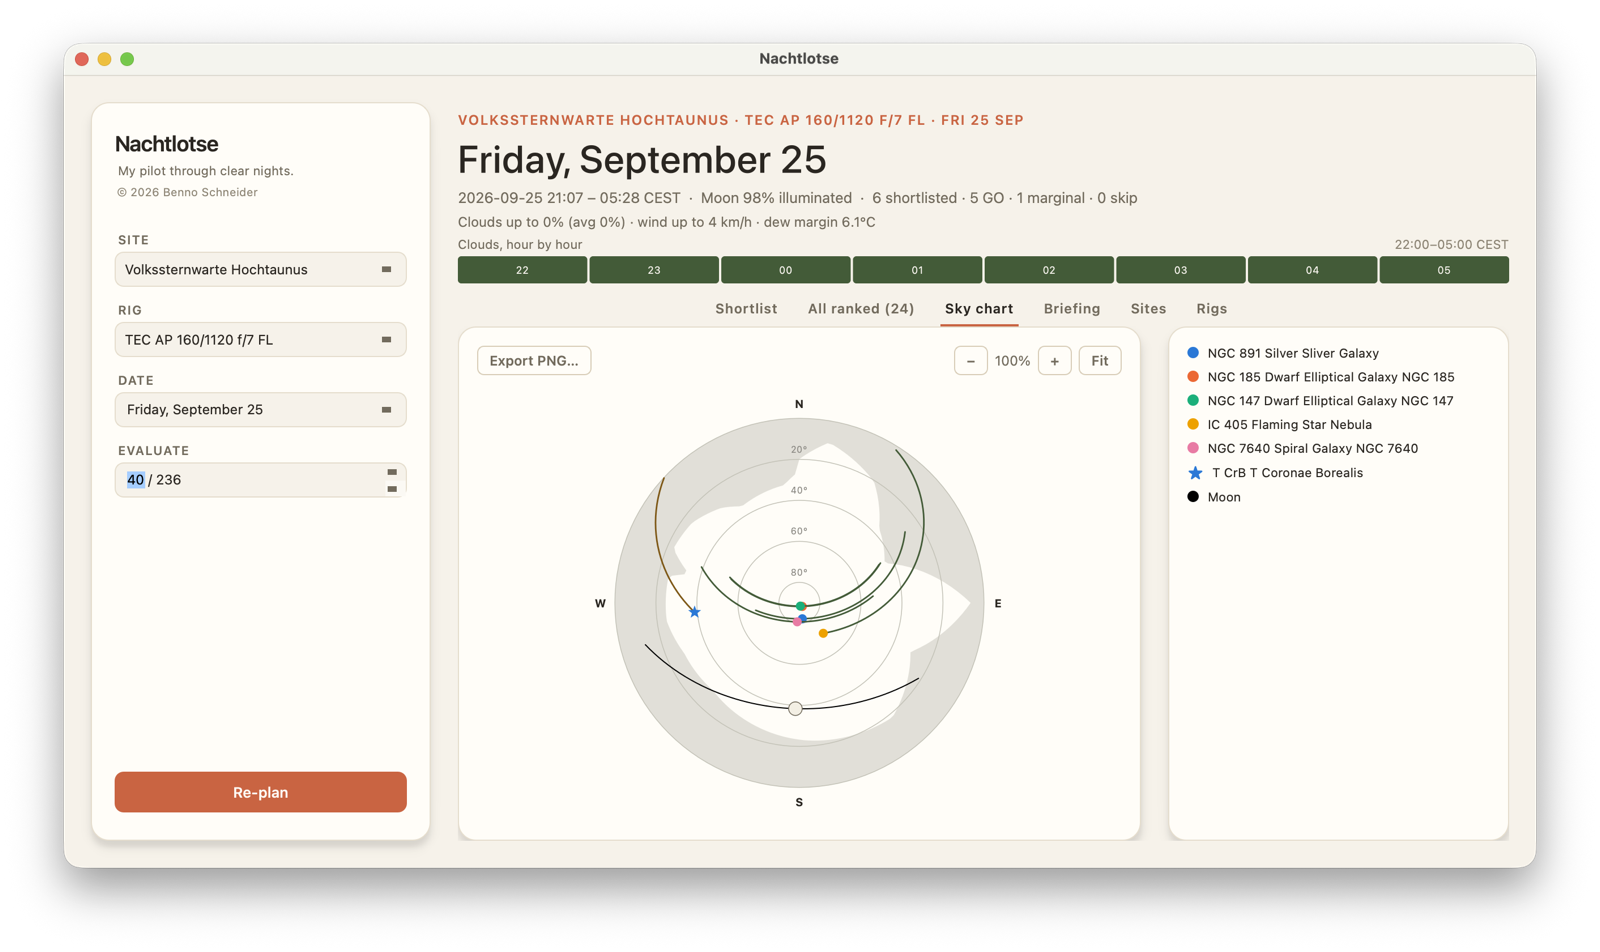
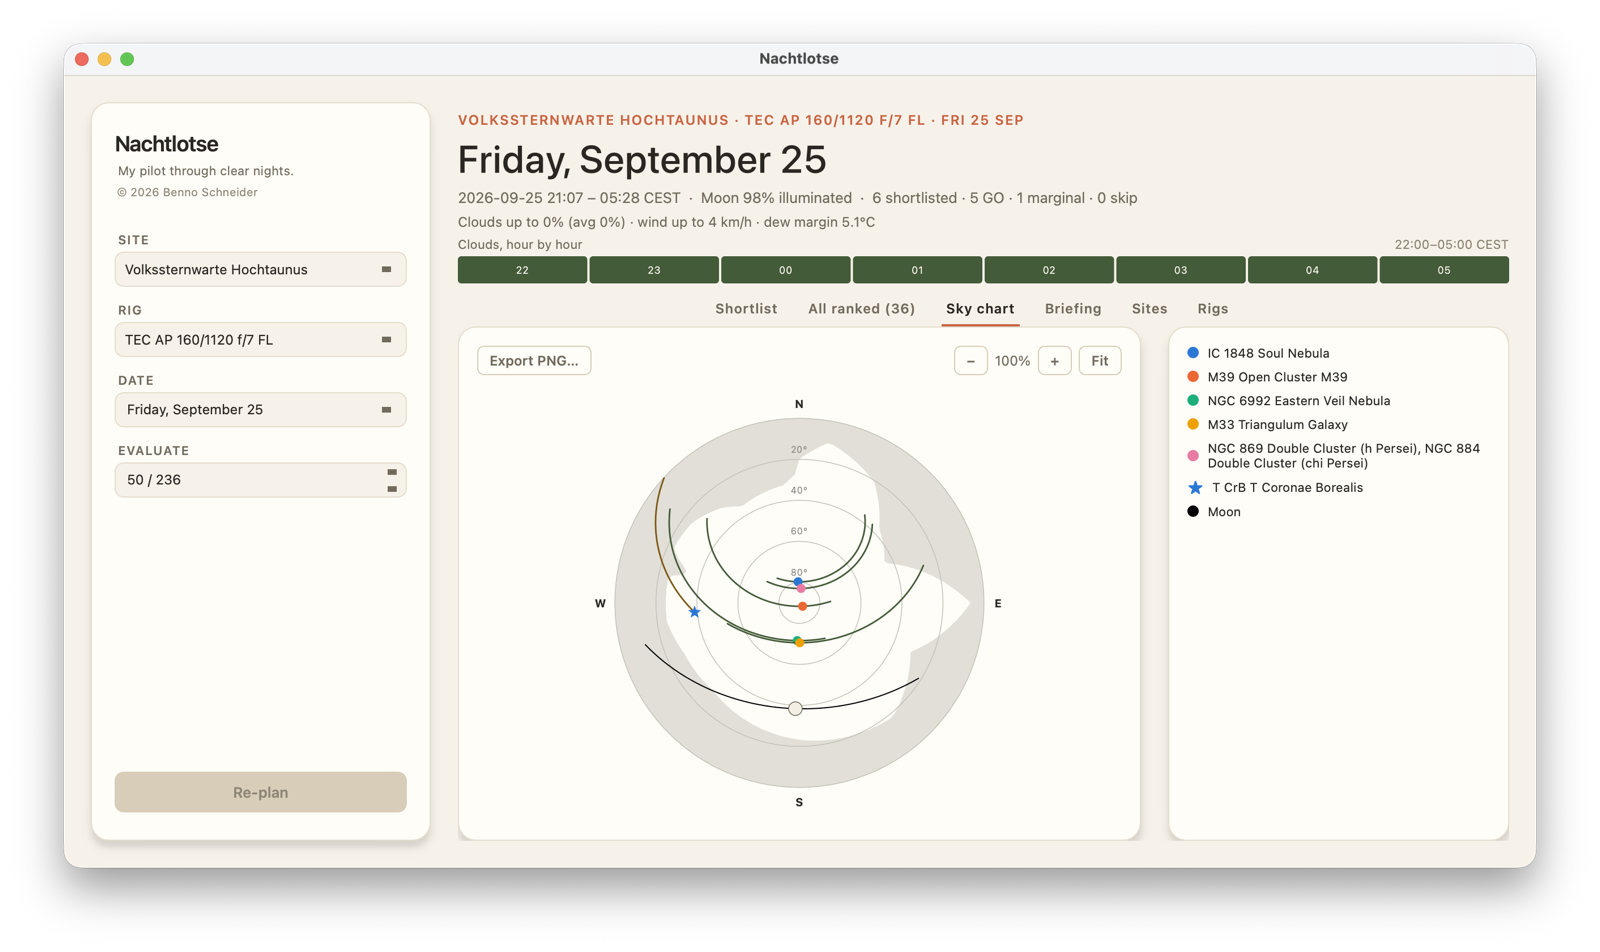
Evaluate catalog objects brightest-first; exempt favorites from the cap
The catalog loader sorted mag_*.yaml bin files alphabetically
(sorted(glob(...))), not by brightness, despite rank_targets's own
docstring claiming "catalog order is magnitude-binned, brightest
first". Alphabetically, mag_10_11.yaml sorts before mag_lt_6.yaml, so
the GUI/CLI's default --limit 50 was evaluating only 10th-13th
magnitude objects and never reaching anything in mag_lt_6.yaml (M31,
M45, ...) — the evaluation cap was silently hiding the most attractive
targets in the catalog.

data/catalog/__init__.py: sort bin files by an explicit brightness key
instead of filename, mag_lt_6 first and mag_unknown last.

planning.py: on top of that, a favorite (Target.favorite) is now
exempt from the evaluation cap entirely — always evaluated regardless
of catalog position, and not counted against the limit — instead of
only being guaranteed a shortlist slot once it happened to already be
in the evaluated set.

README/sidebar tooltip: document both guarantees where --limit/EVALUATE
are documented. Regenerated both GUI screenshots to match.

diff --git a/nachtlotse/data/catalog/__init__.py b/nachtlotse/data/catalog/__init__.py
@@ -5,7 +5,11 @@ catalog (Messier/NGC/IC): the file a target lives in is decided purely by
 brightness, so a site+rig's computed limiting magnitude will eventually be
 able to load only the files it actually needs. New magnitude bins are
 picked up automatically — this module globs `mag_*.yaml` in its own
-directory rather than importing each one by name.
+directory rather than importing each one by name — but loaded in
+brightest-first order (`_brightness_sort_key`), not filename order:
+`planning.rank_targets`'s `limit` caps evaluation to the first N entries
+of `CATALOG`, so the load order is what makes "evaluate only 50" mean
+"evaluate the 50 brightest" rather than an arbitrary alphabetical slice.
 
 `mag_unknown.yaml` is the one exception to "split by magnitude": it holds
 objects with no reliably sourced integrated magnitude at all (see
@@ -45,6 +49,7 @@ that way; omit the key entirely rather than writing `favorite: false`.
 
 from __future__ import annotations
 
+import re
 from pathlib import Path
 from typing import Any
 
@@ -53,6 +58,28 @@ import yaml
 from nachtlotse.engine.models import Target
 
 _CATALOG_DIR = Path(__file__).resolve().parent
+
+_BIN_FILENAME_RE = re.compile(r"^mag_(?:lt_(?P<lt>\d+)|(?P<low>\d+)_\d+|unknown)\.yaml$")
+
+
+def _brightness_sort_key(path: Path) -> float:
+    """Lower is brighter/evaluated-first — see `planning.rank_targets`'s
+    `limit`, which relies on catalog order being brightest-first so that
+    capping evaluation to the first N objects still surfaces the most
+    attractive targets rather than an alphabetically-arbitrary slice.
+
+    `mag_lt_6.yaml` sorts before every numeric bin (no lower bound to key
+    on); `mag_unknown.yaml` sorts after all of them, magnitude being
+    exactly what's not known about those entries.
+    """
+    match = _BIN_FILENAME_RE.match(path.name)
+    if match is None:
+        raise ValueError(f"catalog bin file doesn't match the mag_*.yaml pattern: {path.name}")
+    if match["lt"] is not None:
+        return -float(match["lt"])
+    if match["low"] is not None:
+        return float(match["low"])
+    return float("inf")  # mag_unknown.yaml
 
 
 def _target_from_dict(raw: dict[str, Any]) -> Target:
@@ -73,7 +100,7 @@ def _target_from_dict(raw: dict[str, Any]) -> Target:
 
 def _load_catalog() -> list[Target]:
     targets: list[Target] = []
-    for path in sorted(_CATALOG_DIR.glob("mag_*.yaml")):
+    for path in sorted(_CATALOG_DIR.glob("mag_*.yaml"), key=_brightness_sort_key):
         raw_targets = yaml.safe_load(path.read_text(encoding="utf-8")) or []
         targets.extend(_target_from_dict(raw) for raw in raw_targets)
     return targets

diff --git a/nachtlotse/planning.py b/nachtlotse/planning.py
@@ -272,6 +272,12 @@ def rank_targets(
     are skipped before the expensive ephemeris check, keeping `lotse plan`
     fast even with a large catalog.  The first N matching objects are
     evaluated (catalog order is magnitude-binned, brightest first).
+    `Target.favorite` entries are exempt from this cap — they're always
+    evaluated, wherever they sit in catalog order, so a low `limit` can
+    never make a favorite silently vanish from the plan (only the actual
+    tonight-visibility checks in `constraints.best_time_tonight` can drop
+    one). They don't count against `limit` either, so a small `limit`
+    plus a favorite never costs headroom meant for other objects.
 
     Ranked by `framing.target_priority_score` (altitude, fit, and
     surface-brightness reach together), not altitude alone — a target
@@ -290,9 +296,14 @@ def rank_targets(
     for target in CATALOG:
         if types is not None and not (set(target.types) & types):
             continue
-        if 0 < limit <= evaluated:
-            break
-        evaluated += 1
+        # Favorites are exempt from the cap (see docstring) — can't just
+        # `break` once the limit's hit, since a favorite may still be
+        # further down catalog order; keep scanning, just without paying
+        # for the expensive ephemeris check on anything else past it.
+        if not target.favorite:
+            if 0 < limit <= evaluated:
+                continue
+            evaluated += 1
         result = constraints.best_time_tonight(
             site, target, when, extra_ok=_rotation_gate(rig, site, target)
         )
@@ -358,9 +369,12 @@ def rank_targets_for_best_rig(
     for target in CATALOG:
         if types is not None and not (set(target.types) & types):
             continue
-        if 0 < limit <= evaluated:
-            break
-        evaluated += 1
+        # Favorites are exempt from the cap — see `rank_targets`'s
+        # docstring for why this can't just `break` once the limit's hit.
+        if not target.favorite:
+            if 0 < limit <= evaluated:
+                continue
+            evaluated += 1
 
         best_for_target: RankedTargetForBestRig | None = None
         for rig in rigs:

diff --git a/tests/test_planning.py b/tests/test_planning.py
@@ -760,6 +760,57 @@ def test_rank_targets_default_limit_is_50(
     assert len(ranked) == 0
 
 
+def test_rank_targets_limit_does_not_skip_a_favorite(
+    template_sites: list[store.SiteRecord],
+    template_rigs: list[store.RigRecord],
+    monkeypatch: pytest.MonkeyPatch,
+) -> None:
+    """A `favorite` target must always be evaluated, regardless of where
+    it sits in catalog order relative to `limit` — the whole point of
+    starring an object (ROADMAP.md's "Favorites in the catalog") is that
+    it keeps showing up no matter what, and a low evaluation limit is as
+    silent a way to drop it as a low ranking is."""
+    from unittest.mock import patch
+
+    from nachtlotse.engine.ephemeris import AltAz
+    from nachtlotse.engine.models import Target
+
+    site = store.get_site_record("Großer Feldberg").site
+    rig = store.default_rig_record().rig
+
+    fillers = [
+        Target(name=f"filler {i}", ra_deg=0.0, dec_deg=0.0, types=("galaxy",))
+        for i in range(20)
+    ]
+    favorite = Target(
+        name="starred galaxy", ra_deg=0.0, dec_deg=0.0, types=("galaxy",), favorite=True
+    )
+    # Placed well past a limit of 5 — brightest-first catalog order gives
+    # no guarantee a favorite sorts early.
+    targets = [*fillers[:15], favorite, *fillers[15:]]
+    monkeypatch.setattr(planning, "CATALOG", targets)
+
+    call_count = 0
+    now = datetime.now(UTC)
+
+    def selective_best_time(site, target, when, **kwargs):
+        nonlocal call_count
+        call_count += 1
+        if target.favorite:
+            return now, AltAz(alt_deg=45.0, az_deg=90.0, distance_au=1.0)
+        return None  # every non-favorite fails, to isolate the favorite's own result
+
+    with patch(
+        "nachtlotse.planning.constraints.best_time_tonight", side_effect=selective_best_time
+    ):
+        ranked = planning.rank_targets(site, rig, now, limit=5)
+
+    # 5 non-favorites (the limit) + the 1 favorite, wherever it sat.
+    assert call_count == 6
+    assert len(ranked) == 1
+    assert ranked[0].target.name == "starred galaxy"
+
+
 def test_rank_targets_limit_exceeds_catalog(
     template_sites: list[store.SiteRecord],
     template_rigs: list[store.RigRecord],

diff --git a/tests/test_catalog.py b/tests/test_catalog.py
@@ -252,6 +252,30 @@ def test_catalog_contains_t_crb_as_a_favorite_variable_star() -> None:
     assert t_crb.types == ("variable_star",)
 
 
+_BIN_ORDER = [*_BIN_BOUNDS, _UNKNOWN_MAGNITUDE_BIN_FILENAME]
+
+
+def _expected_bin(magnitude: float | None) -> str:
+    if magnitude is None:
+        return _UNKNOWN_MAGNITUDE_BIN_FILENAME
+    for filename, (low, high) in _BIN_BOUNDS.items():
+        if (low is None or magnitude >= low) and magnitude < high:
+            return filename
+    raise AssertionError(f"magnitude {magnitude} matches no known bin")
+
+
+def test_catalog_is_loaded_brightest_first() -> None:
+    """`planning.rank_targets`'s `limit` caps evaluation to the first N
+    entries of CATALOG, on the assumption that catalog order is
+    brightest-first — a regression here (e.g. back to alphabetical glob
+    order) would silently make `--limit 50` skip every bright, attractive
+    object in favor of whichever bin sorts first by filename. Only bin-level
+    order is asserted; a bin file's own internal ordering isn't a contract.
+    """
+    bin_ranks = [_BIN_ORDER.index(_expected_bin(target.magnitude)) for target in CATALOG]
+    assert bin_ranks == sorted(bin_ranks)
+
+
 def test_load_catalog_picks_up_any_new_mag_bin_file_automatically(
     tmp_path: Path, monkeypatch: pytest.MonkeyPatch
 ) -> None:

diff --git a/nachtlotse/gui/sidebar.py b/nachtlotse/gui/sidebar.py
@@ -222,9 +222,15 @@ class Sidebar(RoundedCard):
         # this special value, so it's spelled out here instead.
         self.limit_spin.setSpecialValueText(f"Unlimited ({catalog_size})")
         self.limit_spin.setToolTip(
-            f"How many of the {catalog_size} catalog objects (matching any\n"
-            "type filter) get evaluated, not how many end up shortlisted.\n"
-            "0 evaluates every one of them — slower, but nothing is skipped."
+            f"How many of the {catalog_size} catalog objects get evaluated,\n"
+            "not how many end up shortlisted. Evaluated brightest-first (by\n"
+            "catalog magnitude), so a lower number gives up the faintest,\n"
+            "least attractive objects first — nothing bright is skipped in\n"
+            "favor of something fainter.\n"
+            "0 evaluates every one of them — slower, but nothing is skipped.\n"
+            "A ★ favorite is always evaluated regardless of this limit — it\n"
+            "can only be missing from the plan if it genuinely isn't up\n"
+            "tonight."
         )
         self.limit_spin.setStyleSheet(picker_style)
 

diff --git a/README.md b/README.md
@@ -96,7 +96,13 @@ uv run lotse plan --type galaxy --type globular_cluster
 
 # --limit caps how many catalog objects are evaluated (default: 50, use 0 for all).
 # Keeps `lotse plan` fast when the catalog is large; all objects that clear
-# basic constraints are still ranked, just the evaluation budget is limited:
+# basic constraints are still ranked, just the evaluation budget is limited.
+# The catalog is loaded brightest-first, so a lower limit gives up the
+# faintest objects first, not an arbitrary slice — nothing bright is
+# skipped in favor of something fainter. A starred favorite (e.g. T CrB)
+# is always evaluated regardless of this limit, wherever it sits in
+# catalog order; it can only be missing from a plan if it genuinely
+# isn't up tonight.
 uv run lotse plan --limit 20
 uv run lotse plan --limit 0    # evaluate every catalog object
 
@@ -164,10 +170,12 @@ target's best-time dot its own color — a star instead of a dot for a
 favorite, e.g. T CrB — plus a real Moon track and phase icon), a
 nightly-briefing screen (same Claude API opt-in/fail-loud contract as
 `--prose` — nothing is sent to Anthropic until you click Generate), and
-a read-only sites/rigs reference. See [ROADMAP.md](./ROADMAP.md) for the
-toolkit decision (PySide6 over PyObjC/AppKit) and what's still open (an
-in-app sites/rigs editor, a GUI catalog/favorites tab, GUI-side exports,
-among others).
+a read-only sites/rigs reference. The sidebar's EVALUATE field is the
+GUI's own `--limit` (see above) — same brightest-first evaluation order,
+same unconditional exemption for starred favorites. See
+[ROADMAP.md](./ROADMAP.md) for the toolkit decision (PySide6 over
+PyObjC/AppKit) and what's still open (an in-app sites/rigs editor, a GUI
+catalog/favorites tab, GUI-side exports, among others).
 
 ## Architecture
 
